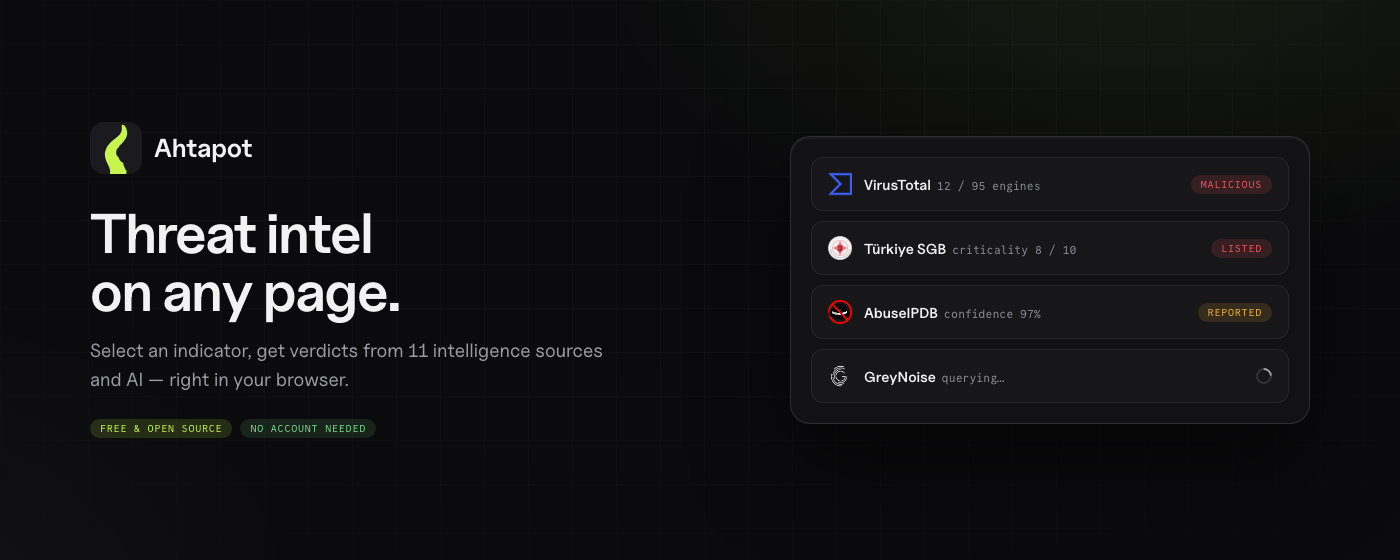
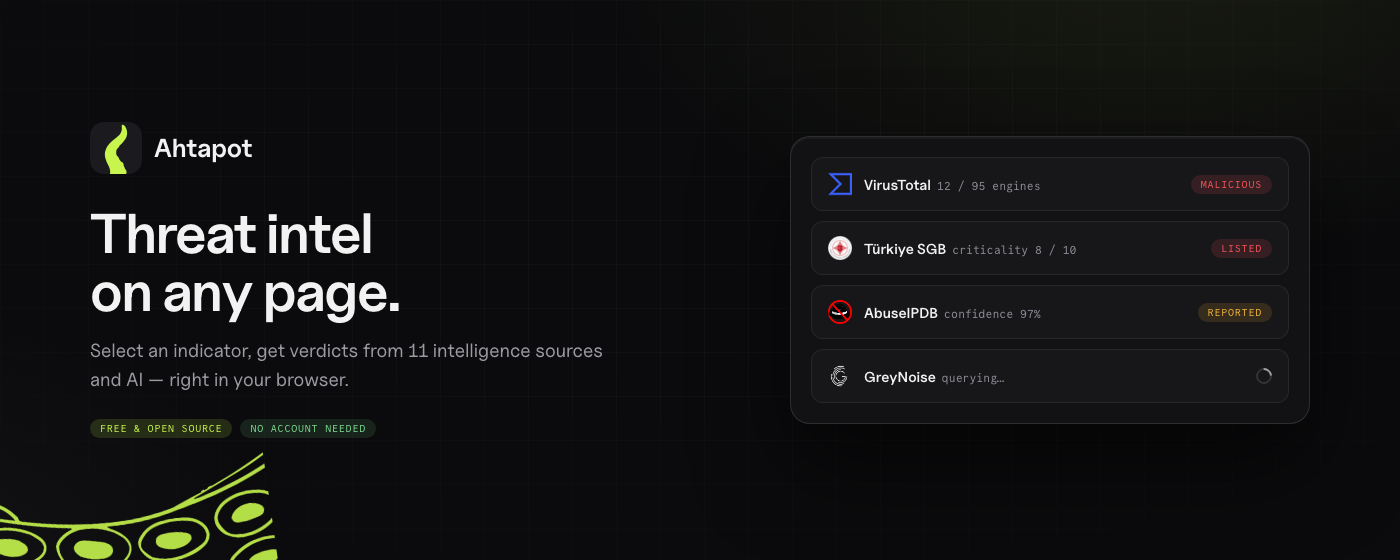
docs: brand tentacle illustration in store assets, abstract detection shot (#13)
- The Figma tentacle line-art now anchors the hero screenshot and marquee
  tile, entering from the bottom-left corner behind the copy.
- Screenshot 4 rebuilt: the light 'report page' with realistic IOC values
  (which read as another product's coloring) is replaced by an abstract
  dark document of skeleton bars with a lime selection and the floating
  Analyze button - the old 'Click to Analyze' composition, restated in the
  current design language.

Changed region(s): [[0.0, 0.8196, 0.215, 1.0]]

diff --git a/docs/store-assets/s4-detection.html b/docs/store-assets/s4-detection.html
@@ -5,7 +5,7 @@
 <link rel="stylesheet" href="shared.css">
 <style>
   body { width: 1280px; height: 800px; }
-  .stage { display: flex; align-items: center; gap: 60px; padding: 0 72px; }
+  .stage { display: flex; align-items: center; gap: 70px; padding: 0 72px; }
 
   .copy { width: 450px; flex-shrink: 0; }
   .copy .chip { margin-bottom: 18px; }
@@ -24,36 +24,38 @@
   }
   .type::before { content: ''; width: 5px; height: 5px; border-radius: 50%; background: var(--accent); }
 
-  /* Rapor mockup: açık zeminli sayfa, seçim + floating button */
-  .page {
+  /* Soyut doküman: gerçek değer yok, iskelet satırlar + seçim + buton */
+  .doc {
     flex: 1;
-    background: #F7F7F5;
-    border-radius: 18px;
-    padding: 44px 48px 104px;
-    color: #1F1F24;
-    box-shadow: 0 40px 90px rgba(0,0,0,.55);
+    padding: 40px 40px 96px;
     position: relative;
   }
-  .page h3 { font-size: 20px; font-weight: 640; letter-spacing: -0.02em; margin-bottom: 16px; color: #141417; }
-  .page p { font-family: 'Commit Mono', monospace; font-size: 14.5px; line-height: 2.05; color: #3C3C43; }
-  .hl { background: rgba(153, 153, 170, 0.22); border-radius: 3px; padding: 1px 0; }
-  .ioc { border-bottom: 2px solid #7BB662; }
-  .ioc.red { border-bottom-color: #D95B60; }
-  .ioc.purple { border-bottom-color: #9a6fd0; }
+  .doc-head { display: flex; gap: 7px; margin-bottom: 26px; }
+  .doc-head i { width: 9px; height: 9px; border-radius: 50%; background: rgba(255,255,255,.12); }
 
-  /* Buton, gerçek UX'teki gibi seçimin bittiği yerin sağ-altında durur */
+  .lines { display: flex; flex-direction: column; gap: 16px; }
+  .row { display: flex; gap: 12px; }
+  .bar { height: 14px; border-radius: 7px; background: rgba(255,255,255,.10); }
+  .bar.dim { background: rgba(255,255,255,.06); }
+
+  /* Seçili satırlar: lime seçim dolgusu */
+  .bar.sel {
+    background: rgba(199, 245, 77, 0.22);
+    outline: 1px solid rgba(199, 245, 77, 0.28);
+  }
+
   .fab {
     position: absolute;
-    right: 118px;
-    bottom: 34px;
+    right: 96px;
+    bottom: 30px;
     display: inline-flex;
     align-items: center;
     gap: 9px;
     padding: 11px 16px 11px 12px;
     background: #1A1A1F;
-    border: 1px solid rgba(255,255,255,.12);
+    border: 1px solid rgba(255,255,255,.14);
     border-radius: 999px;
-    box-shadow: 0 10px 26px rgba(0,0,0,.35);
+    box-shadow: 0 14px 34px rgba(0,0,0,.5);
   }
   .fab img { width: 22px; height: 22px; }
   .fab b { font-size: 13.5px; font-weight: 600; color: #fff; }
@@ -67,7 +69,7 @@
     font-size: 11px; font-weight: 640;
     display: inline-flex; align-items: center; justify-content: center;
   }
-  .cursor { position: absolute; right: 106px; bottom: 24px; }
+  .cursor { position: absolute; right: 84px; bottom: 20px; }
 </style>
 </head>
 <body>
@@ -76,8 +78,8 @@
   <div class="stage">
     <div class="copy">
       <div class="chip">Detection</div>
-      <div class="h1">Reads reports<br>like you do.</div>
-      <p class="sub">Select any text — Ahtapot finds the indicators, even defanged ones. <span class="mono" style="color:var(--text)">hxxps://</span> and <span class="mono" style="color:var(--text)">[.]</span> are handled automatically.</p>
+      <div class="h1">Select anything.<br>We find the IOCs.</div>
+      <p class="sub">Highlight any part of a page — Ahtapot picks out the indicators, even defanged ones like <span class="mono" style="color:var(--text)">hxxps://</span> and <span class="mono" style="color:var(--text)">[.]</span>, and offers to analyze them.</p>
       <div class="types">
         <span class="type">IPv4 / IPv6</span>
         <span class="type">Domain / URL</span>
@@ -88,22 +90,25 @@
       </div>
     </div>
 
-    <div class="page">
-      <h3>Threat Advisory — FIN-2026-081</h3>
-      <p>
-        <span class="hl">Phishing emails originated from <span class="ioc">secure-updates[.]financorp[.]net</span> and linked to
-        <span class="ioc red">hxxps://login-portal[.]financorp[.]net/auth/verify</span>, a credential harvesting page.
-        Post-exploitation, the actor leveraged <span class="ioc purple">CVE-2021-44228</span> and staged payloads on
-        <span class="ioc red">203.0.113.50</span>. The dropped loader matches
-        <span class="ioc">e3b0c44298fc1c149afbf4c8996fb924…</span></span>
-      </p>
+    <div class="doc panel">
+      <div class="doc-head"><i></i><i></i><i></i></div>
+      <div class="lines">
+        <div class="row"><span class="bar" style="width:62%"></span></div>
+        <div class="row"><span class="bar dim" style="width:34%"></span><span class="bar" style="width:44%"></span></div>
+        <div class="row"><span class="bar" style="width:18%"></span><span class="bar dim" style="width:26%"></span><span class="bar" style="width:30%"></span></div>
+        <div class="row"><span class="bar dim" style="width:88%"></span></div>
+        <div class="row"><span class="bar" style="width:24%"></span><span class="bar sel" style="width:38%"></span><span class="bar sel" style="width:20%"></span></div>
+        <div class="row"><span class="bar sel" style="width:52%"></span><span class="bar dim" style="width:22%"></span></div>
+        <div class="row"><span class="bar dim" style="width:40%"></span><span class="bar" style="width:26%"></span></div>
+        <div class="row"><span class="bar" style="width:70%"></span></div>
+      </div>
 
       <div class="fab">
         <img src="../../public/icons/mark.svg" alt="">
         <b>Analyze</b>
-        <i>5</i>
+        <i>3</i>
       </div>
-      <svg class="cursor" width="22" height="22" viewBox="0 0 24 24" fill="#141417" stroke="#fff" stroke-width="1.6"><path d="M5 3l14 9-6.5 1.5L9 20z"/></svg>
+      <svg class="cursor" width="22" height="22" viewBox="0 0 24 24" fill="#F2F2F3" stroke="#0B0B0D" stroke-width="1.6"><path d="M5 3l14 9-6.5 1.5L9 20z"/></svg>
     </div>
   </div>
 </body>

diff --git a/docs/store-assets/tile-marquee.html b/docs/store-assets/tile-marquee.html
@@ -13,7 +13,17 @@
   .sub { font-size: 19px; max-width: 520px; }
   .pills { display: flex; gap: 8px; margin-top: 26px; }
 
-  .mock { width: 520px; flex-shrink: 0; padding: 20px; }
+  .mock { width: 520px; flex-shrink: 0; padding: 20px; position: relative; }
+
+  .tentacle {
+    position: absolute;
+    left: -128px;
+    bottom: -218px;
+    width: 400px;
+    transform: rotate(-8deg);
+    opacity: 0.9;
+    pointer-events: none;
+  }
   .row { display: flex; align-items: center; gap: 12px; padding: 14px 16px; }
   .row + .row { margin-top: 10px; }
   .row img { width: 24px; height: 24px; object-fit: contain; }
@@ -32,6 +42,7 @@
 <body>
   <div class="backdrop"></div>
   <div class="grid-lines"></div>
+  <img class="tentacle" src="assets/tentacle.png" alt="">
   <div class="stage">
     <div class="copy">
       <div class="brand">

diff --git a/docs/store-assets/s1-hero.html b/docs/store-assets/s1-hero.html
@@ -9,6 +9,17 @@
 
   .copy { width: 480px; flex-shrink: 0; }
   .copy .brand { display: flex; margin-bottom: 44px; }
+
+  /* Marka illüstrasyonu: dokunaç, sol alttan çerçeveye girer */
+  .tentacle {
+    position: absolute;
+    left: -128px;
+    bottom: -158px;
+    width: 430px;
+    transform: rotate(-8deg);
+    opacity: 0.92;
+    pointer-events: none;
+  }
   .copy .chip { margin-bottom: 18px; }
   .copy .h1 { font-size: 58px; margin-bottom: 20px; }
   .copy .sub { font-size: 19px; max-width: 420px; }
@@ -102,6 +113,7 @@
 <body>
   <div class="backdrop"></div>
   <div class="grid-lines"></div>
+  <img class="tentacle" src="assets/tentacle.png" alt="">
   <div class="stage">
     <div class="copy">
       <div class="brand">
